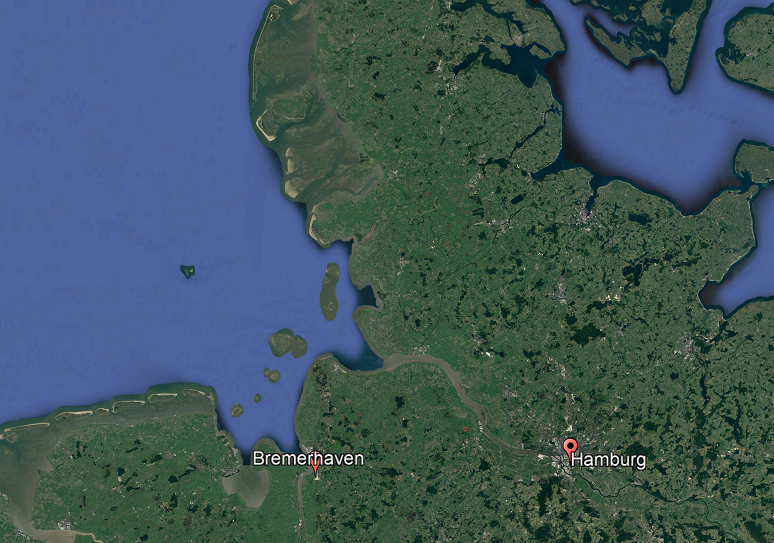
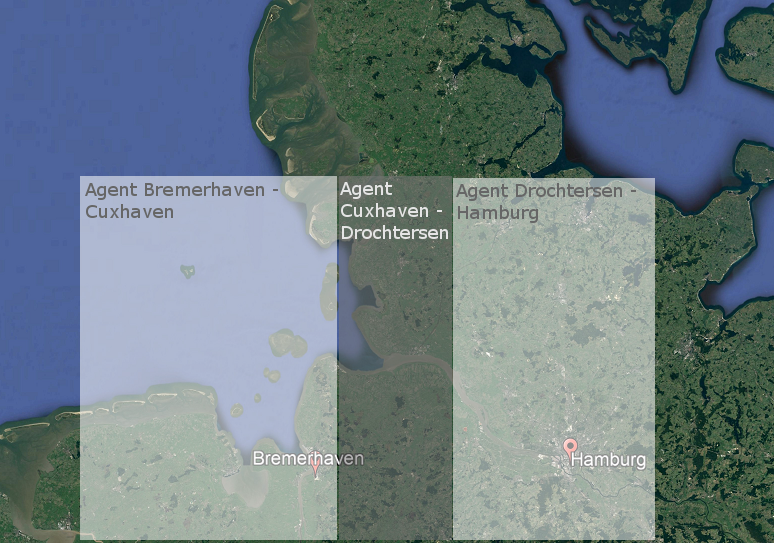
Add new map-files with agent areas marked and link them in mapview

diff --git a/java/src/sd/group03/MapView.java b/java/src/sd/group03/MapView.java
@@ -9,12 +9,12 @@ import java.io.IOException;
 import java.nio.file.Paths;
 
 public class MapView extends JPanel{
-	
+
 
 	private static MapView instance;
-	
+
     private BufferedImage image;
-    private int route = 0; 
+    private int route = 0;
 
     public static MapView getInstance() {
 	    if (instance == null) {
@@ -22,11 +22,11 @@ public class MapView extends JPanel{
 	    }
     	return instance;
     }
-    
+
     private MapView() {
 		changeMap(0);
     }
-    
+
     public int getMap() {
     	return route;
     }
@@ -52,15 +52,19 @@ public class MapView extends JPanel{
 			   break;
 		   case 5:
 			   // bh ohne historic mit agent
+			   pic = "bhagent.png";
 			   break;
 		   case 6:
 			   // kg ohne historic mit agent
+			   pic = "kgagent.png";
 			   break;
 		   case 7:
 			   // bh mit historic mit agent
+			   pic = "bhplotagent.png";
 			   break;
 		   case 8:
 			   // kg mit historic mit agent
+			   pic = "kgplotagent.png";
 			   break;
 		   default:
 			   pic = "gross.png";
@@ -73,21 +77,21 @@ public class MapView extends JPanel{
 			e.printStackTrace();
 		}
     }
-    
+
     public void drawlivePoint(int xKord, int yKord, int rgb) {
     	image.setRGB(xKord, yKord, rgb);
     	updateUI();
    	}
-    
+
 	public int y_Geo2Pix(double lat, int route) {
 
 		double TOP_LAT = 0;
 		double BOT_LAT = 0;
-		
+
 		double height= (double)instance.getHeight();
 
 
-		
+
 		switch (route) {
 		case 1: // Brhv-HH
 			TOP_LAT = 54.104;
@@ -102,18 +106,18 @@ public class MapView extends JPanel{
 			BOT_LAT = 53.140;
 			break;
 		}
-		
+
 		int yPix = (int) (height - (lat - BOT_LAT)* height/(TOP_LAT - BOT_LAT) );
 		return yPix;
 	}
-	
+
 	public static int x_Geo2Pix(double lon, int route) {
-		
+
 		double width= (double) instance.getWidth();
-		
+
 		double LEFT_LON = 7.973;
 		double RIGHT_LON = 10.292;
-				
+
 		switch (route) {
 		case 1: // Brhv-HH
 			LEFT_LON = 7.973;
@@ -128,17 +132,16 @@ public class MapView extends JPanel{
 			RIGHT_LON = 0;
 			break;
 		}
-		
+
 		int xPix = (int) ((lon - LEFT_LON)*(width / (RIGHT_LON - LEFT_LON)));
 		return xPix;
 	}
- 
-    
+
+
     @Override
     protected void paintComponent(Graphics g) {
             super.paintComponent(g);
-       g.drawImage(image, 0, 0, this); // see javadoc for more info on the parameters            
+       g.drawImage(image, 0, 0, this); // see javadoc for more info on the parameters
     }
 
 }
-
